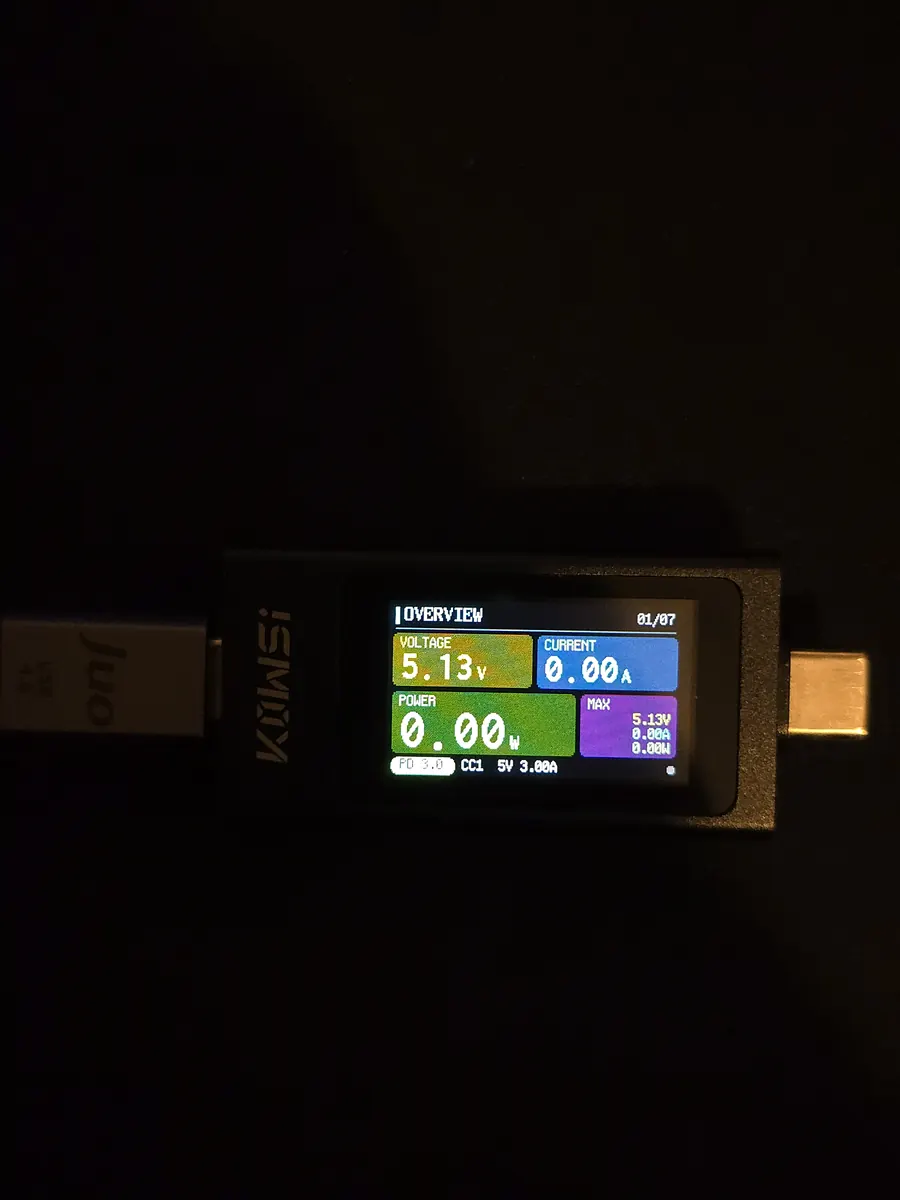
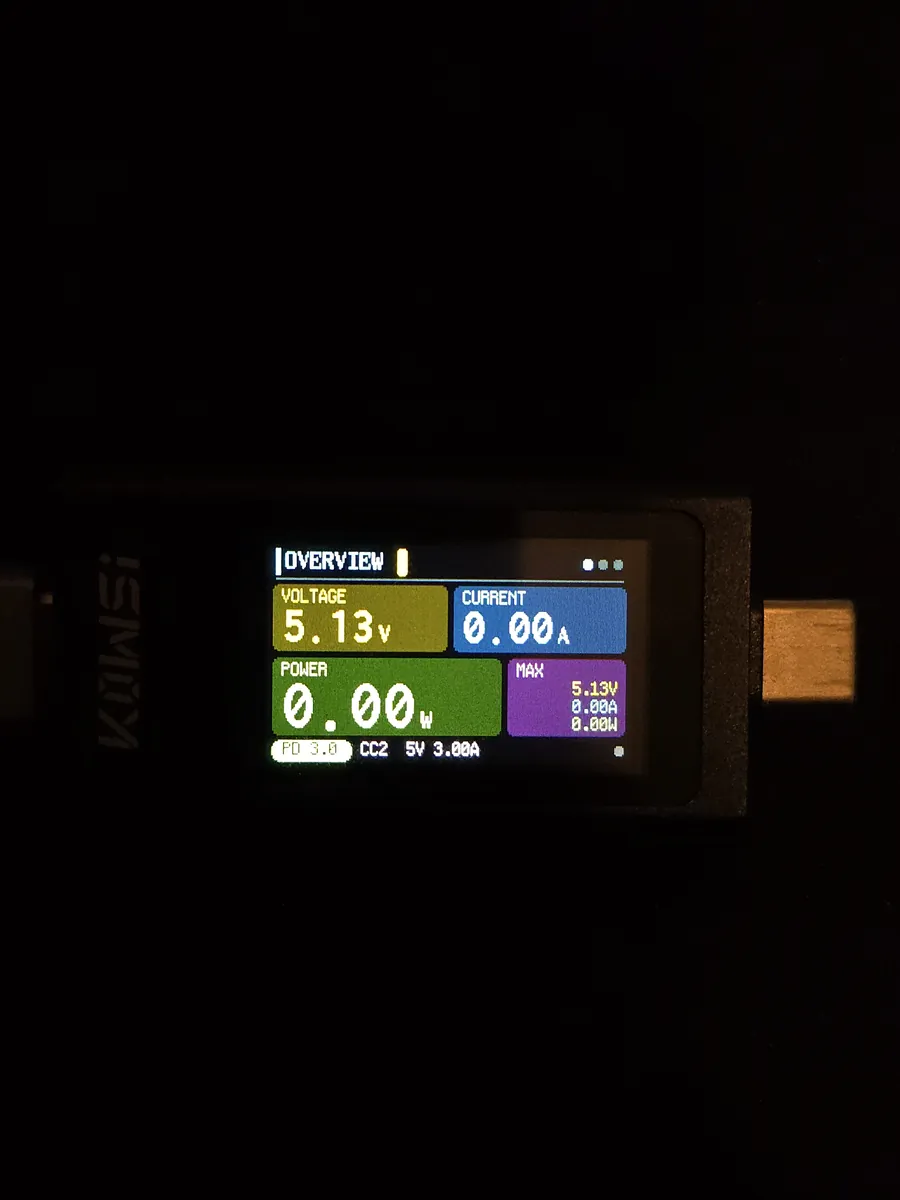
docs: retake the screen photos and align the screen guide

Changed region(s): [[0.28, 0.4008, 0.9956, 0.7092], [0.0311, 0.4933, 0.2489, 0.6167]]

diff --git a/README.md b/README.md
@@ -30,6 +30,7 @@ is not affiliated with or endorsed by KOWSI.
 - [Screens](#screens)
   - [Sink mode](#sink-mode)
   - [Passthrough mode](#passthrough-mode)
+- [Quick Charge](#quick-charge)
 - [Full charger offer and 5 A without a cable](#full-charger-offer-and-5-a-without-a-cable)
 - [Hand-test checklist](#hand-test-checklist)
 - [Safety](#safety)
@@ -90,7 +91,7 @@ This is **kws-x1-standalone-rs**.
   direction indicator.
 - D+, D-, CC1 and CC2 line voltages.
 - USB PD sink: fixed profiles up to 20 V and PPS, chosen on the meter.
-- Quick Charge trigger (work in progress): 5, 9, 12 or 20 V over D+/D−, or
+- Quick Charge trigger: 5, 9, 12 or 20 V over D+/D−, or
   Quick Charge 3.0 0.2 V steps from 3.6 V, checked against VBUS, and a probe
   that reports Quick Charge 2.0 or 3.0 and Class A or B. On USB-C the meter
   switches the charger out of PD for it by itself.
@@ -246,9 +247,16 @@ but are no longer saved. The bootloader and its region are never written.
 
 ## Screens
 
-Every screen, group by group in Left/Right order, with each field it can show.
-`-` or `--.--` in a field means "not known yet". Hexadecimal values are raw
-register or message contents, shown for diagnosis.
+Every screen, group by group in Left/Right order. Each one gives a photo,
+what the screen is for, each field it can show, then its hint row (the
+bottom line). `-` or `--.--` in a field means "not known yet". Hexadecimal
+values are raw register or message contents, shown for diagnosis.
+
+While Left/Right move between groups, every hint row reads
+`< > groups    OK tabs`. The scrolling screens (PD Session, Charger, Cable,
+System, PD Sniff) share one hint row: `OK scroll    < > tabs`, then
+`< > scroll    OK done` while scrolling, or `< > tabs    BACK groups` when
+everything fits on one screen.
 
 ### Sink mode
 
@@ -256,8 +264,9 @@ register or message contents, shown for diagnosis.
 
 <img src="pictures/overview_screen.webp" width="360" alt="Overview screen">
 
-This is the **Overview** screen (tab `OVERVIEW` in Monitor), the one the
-meter starts on.
+This is the **Overview** screen (tab `OVERVIEW` in Monitor): the live bus
+readings and the protocol in use. The meter starts on it, and its bottom line
+is the protocol status instead of a hint row.
 
 - **`VOLTAGE`**: bus voltage, in volts. `--.--` until the first reading, or
   while the sensor bus is closed.
@@ -298,9 +307,13 @@ meter starts on.
 
 #### 2. Lines
 
-This is the **Lines** screen (tab `LINES` in Monitor): the voltages on the USB data and
-configuration lines, read by the MCU's own ADC against its internal
-reference, independently of the bus sensor and the PD controller.
+<img src="pictures/lines_screen.webp" width="360" alt="Lines screen">
+
+This is the **Lines** screen (tab `LINES` in Monitor): the voltages on the
+USB data and configuration lines, read by the MCU's own ADC against its
+internal reference, independently of the bus sensor and the PD controller.
+The lines are sampled only while this screen, the overview or a Quick Charge
+screen shows, or while Quick Charge runs.
 
 - **`D+`** / **`D-`**: the USB 2.0 data lines, in volts. Chargers that
   identify themselves on these lines (BC 1.2, Apple and similar dividers) show
@@ -309,18 +322,16 @@ reference, independently of the bus sensor and the PD controller.
   in use carries the Type-C pull-up/pull-down level; a cable's VCONN shows on
   the other one.
 - `-.--`: no reading yet, or the last ADC scan failed.
-- **`approximate`** (hint row): the internal reference was measured on one
-  unit, and another unit's may differ by a few percent (see
+- **Hint row**: `approximate    < > tabs`. The internal reference was
+  measured on one unit, and another unit's may differ by a few percent (see
   [Limitations](#limitations)).
-
-The lines are sampled only while this screen, the overview or a Quick
-Charge screen is shown, or while Quick Charge runs.
 
 #### 3. PD Profiles
 
 <img src="pictures/pd_profiles_screen.webp" width="360" alt="PD Profiles screen">
 
-This is the **PD Profiles** screen (tab `PD PROFILES` in Trigger): the charger's fixed profiles.
+This is the **PD Profiles** screen (tab `PD PROFILES` in Trigger): the
+charger's fixed profiles, to request one.
 
 - **Each row**: voltage, the charger's maximum current at it, and that power
   in watts. The voltage is coloured from cool (low) to warm (high).
@@ -329,17 +340,18 @@ This is the **PD Profiles** screen (tab `PD PROFILES` in Trigger): the charger's
 - **`NO PD CHARGER` / `plug in a PD source`**: the charger offered no
   fixed profiles.
 - **`QC MODE` / `PD is off while Quick Charge runs`**: this boot keeps PD
-  silent for Quick Charge, so there is no offer; the PPS screen shows the
-  same. OK (`OK switch back to PD`) switches back to PD.
+  silent for [Quick Charge](#quick-charge), so there is no offer.
 - **Hint row**: `OK select a profile    < > tabs`, then while choosing
   `< > choose  OK request  BACK cancel`. Before the charger's offer arrives it
-  reads `waiting for the charger    < > tabs`.
+  reads `waiting for the charger    < > tabs`; in `QC MODE`,
+  `OK switch back to PD`.
 
 #### 4. PPS
 
 <img src="pictures/pps_screen.webp" width="360" alt="PPS screen">
 
-This is the **PPS** screen (tab `PPS` in Trigger): programmable voltage.
+This is the **PPS** screen (tab `PPS` in Trigger): the charger's
+programmable ranges, to request a voltage and current limit.
 
 - **Range row**: each PPS range the charger offers, for example
   `3.30-21.00V  up to 5.00A`.
@@ -351,45 +363,19 @@ This is the **PPS** screen (tab `PPS` in Trigger): programmable voltage.
 - **State**: `ACTIVE` (this setting is the contract in force), `NOT APPLIED`
   (set but not requested yet), or empty.
 - **`NO PPS` / `this charger offers no PPS range`**: nothing to set.
+- **`QC MODE`**: as on the PD Profiles screen.
 - **Hint row**: `OK adjust PPS    < > tabs`, `< > volts    OK next: current`,
-  `< > amps    OK request`, or `waiting for the charger    < > tabs`.
+  `< > amps    OK request`, or `waiting for the charger    < > tabs`; in
+  `QC MODE`, `OK switch back to PD`.
 
 #### 5. QC 2.0
 
-This is the **QC 2.0** screen (tab `QC 2.0` in Trigger), laid out as the PD
-Profiles screen.
+<img src="pictures/qc2_screen.webp" width="360" alt="QC 2.0 screen">
 
-**Under a PD contract** a USB-C charger ignores Quick Charge, so the screen
-shows only `PD MODE` / `the charger ignores QC under PD`, and the PD
-Profiles and PPS screens stay in use. OK (`OK switch to QC, tests up to
-20V`) switches: the meter restarts the charger with a Hard Reset and boots
-with PD silent (Rd held, nothing acknowledged), so the charger falls back to
-non-PD 5 V and takes Quick Charge. The charger may restart one or two more
-times before it settles. The meter comes back on the Quick Charge screen it
-left and tests the charger at once. OK on the PD Profiles or PPS screen
-switches back the same way, into PD. The meter stops saving the switch once the charger
-had 10 s to settle, so the next plug-in starts with PD again.
-
-**The test** (`TESTING THE CHARGER`) runs the first time Quick Charge starts
-in a boot, without a PD contract on OK, or straight after the switch out of
-PD. It holds D+ at 0.6 V until the charger releases D−, then requests Quick
-Charge 3.0 continuous mode and three 200 mV steps up from 5 V, then 5 V
-again (a charger ignored fixed requests sent straight from continuous mode),
-9, 12 and 20 V, and ends at 5 V. The checked requests all raise the output,
-so a slowly falling VBUS cannot hide the steps. **It puts up to 20 V on the
-output port**, so disconnect anything that cannot take that first. It ends
-in `NO CHARGING PORT` (D+ and D− are not shorted) or `NO QUICK CHARGE` (D−
-never went low) when the charger has no Quick Charge.
-
-After the test the choice opens at 5 V: Left/Right choose among the
-voltages the charger took, and OK requests one and closes the choice; Back
-closes it without a request. OK reopens it at the voltage in force. The
-request stays in force while other screens show, so the overview can watch
-it. `OFF` releases D+/D−, and the charger returns to plain USB at 5 V.
-
-Quick Charge never confirms a request, so the meter watches VBUS: a request
-whose output has not moved halfway after 610 ms (the charger's 60 ms filter
-plus PD's 550 ms supply transition limit) shows `IGNORED`.
+This is the **QC 2.0** screen (tab `QC 2.0` in Trigger): Quick Charge 2.0
+fixed voltages, to request one. It is laid out as the PD Profiles screen;
+[Quick Charge](#quick-charge) explains the switch out of PD, the test and
+the requests.
 
 - **Rows**: 5, 9, 12 and 20 V, then `OFF` (`plain USB`). Before the test
   20 V reads `Class B only`; after it a voltage the charger ignored is greyed
@@ -398,18 +384,29 @@ plus PD's 550 ms supply transition limit) shows `IGNORED`.
   result.
 - **Status pill** on the row it concerns: `WAIT` (handshake), `SETTING`
   (waiting for VBUS), `ACTIVE`, `IGNORED`, `NO DCP` or `NO QC`.
+- **`PD MODE` / `the charger ignores QC under PD`**: a PD contract holds the
+  charger.
+- **`TESTING THE CHARGER`**: the test runs, with the step it is on
+  (`Quick Charge handshake`, `asking for 9V`, `QC 3.0 continuous mode`,
+  `QC 3.0 steps +0.40V`, `back to 5V`). It ends in `NO CHARGING PORT` /
+  `D+ and D- are not shorted` or `NO QUICK CHARGE` / `D- stayed high` when
+  the charger has no Quick Charge.
+- **Hint row**: `OK choose a voltage    < > tabs`, then while choosing
+  `< > choose  OK request  BACK cancel`, and `OK change    < > tabs` once a
+  request runs. Until the charger follows it: `handshake    < > tabs`,
+  `waiting for VBUS    < > tabs`, `charger kept its output    OK change`,
+  `D+ D- not shorted    OK change` or `D- stayed high    OK change`. Before
+  the test `OK test the charger, up to 20V`, during it
+  `up to 20V on the output    BACK stop` (`BACK` once it failed); in
+  `PD MODE`, `OK switch to QC, tests up to 20V`.
 
 #### 6. QC 3.0
 
-This is the **QC 3.0** screen (tab `QC 3.0` in Trigger), laid out as the PPS
-screen. Under a PD contract it shows only `PD MODE`, and switches as the
-QC 2.0 screen does. OK runs the same test the first time, then starts Quick
-Charge 3.0 continuous mode at 5 V; Left/Right then move the output by 0.2 V
-(held, they repeat), from 3.6 V up to 12 V (20 V on a Class B charger), one
-step per 100 ms scan. OK or Back stops adjusting; the output stays where
-the steps put it while other screens show. OK reopens it there, and `OFF`
-on the QC 2.0 screen ends the steps.
-A charger that ignored the steps in the test shows `NO QC 3.0`.
+<img src="pictures/qc3_screen.webp" width="360" alt="QC 3.0 screen">
+
+This is the **QC 3.0** screen (tab `QC 3.0` in Trigger): Quick Charge 3.0
+continuous mode, to set the output in 0.2 V steps. It is laid out as the PPS
+screen; see [Quick Charge](#quick-charge).
 
 - **Step range** (top): what the test found, else
   `3.6-12V by 0.2V  Class A` and `3.6-20V by 0.2V  Class B`.
@@ -419,13 +416,20 @@ A charger that ignored the steps in the test shows `NO QC 3.0`.
 - **`D+ … D- …`**: the lines as measured, to check the driven levels.
 - **State** (bottom right): `WAIT`, `STEPPING`, `ACTIVE` (the steps reached
   the set voltage), `NO DCP` or `NO QC`.
+- **`PD MODE`** and **`TESTING THE CHARGER`**: as on the QC 2.0 screen.
+- **`NO QC 3.0` / `the charger ignored the steps`**: the test found no
+  steps.
+- **Hint row**: `OK start at 5V    < > tabs`, then `< > 0.2V    OK done`
+  while adjusting, and `OK adjust    < > tabs` once the steps run; the
+  handshake, test and `PD MODE` hints as on the QC 2.0 screen, and `< > tabs`
+  after `NO QC 3.0`.
 
 #### 7. PD Session
 
 <img src="pictures/pd_session_screen.webp" width="360" alt="PD Session screen">
 
-This is the **PD Session** screen (tab `PD SESSION` in Info): the meter's own PD negotiation.
-It scrolls (OK) through three sections.
+This is the **PD Session** screen (tab `PD SESSION` in Info): the meter's
+own PD negotiation. It scrolls (OK) through three sections.
 
 **Session section**
 
@@ -527,8 +531,8 @@ It scrolls (OK) through three sections.
 
 <img src="pictures/charger_screen.webp" width="360" alt="Charger screen">
 
-This is the **Charger** screen (tab `CHARGER` in Info): what the charger says about
-itself, then what Quick Charge detection found. The PD parts are the
+This is the **Charger** screen (tab `CHARGER` in Info): what the charger says
+about itself, then what Quick Charge detection found. The PD parts are the
 charger's claims, not measurements, then the Quick Charge result. It
 scrolls (OK) through the parts; a long offer takes two screens.
 
@@ -545,7 +549,8 @@ scrolls (OK) through the parts; a long offer takes two screens.
   the note `* ONLY WITH 5A CABLE`.
 - **Notes**:
   - `HOLD OK: FULL SCAN` / `QC AND EPR; RESTARTS` (`QC, EPR, 5A; RESTARTS`
-    with the plug in the charger): hold OK for the full scan.
+    with the plug in the charger): hold OK for the
+    [full scan](#full-charger-offer-and-5-a-without-a-cable).
   - After the scan, the EPR (28 V and up) request: `ASKING CHARGER`,
     `NO ANSWER, HOLD OK AGAIN`, `LINE BUSY, HOLD OK AGAIN`, or in the 5 A
     cable test `HOLD OK FOR ALL`.
@@ -606,26 +611,12 @@ with `HOLD OK: FULL SCAN`, or without a PD contract `NOT TESTED YET` with
 **Answer words** used in these sections: `OK`, `WAITING`, `NOT SUPPORTED`,
 `NO REPLY`, `BLOCKED`, `RESET`, `PD2 N/A` (not available under PD 2.0).
 
-**Full scan.** Hold OK on this screen (`HOLD OK: FULL SCAN`). A charger
-ignores Quick Charge under a PD contract, so the meter:
-
-1. Restarts the charger with a Hard Reset into a boot with PD silent, and
-   runs the Quick Charge test on the QC 2.0 screen (it may restart once or
-   twice more first; it carries on). Back abandons the scan.
-2. Saves the result, restarts the charger into PD, asks for the EPR offer by
-   itself, and opens this screen with everything: the offer, the EPR offer,
-   the Quick Charge sections and the charger's answers. With the plug in the
-   charger that boot is the
-   [5 A cable test](#full-charger-offer-and-5-a-without-a-cable).
-
-The output goes up to 20 V during the scan.
-
 #### 9. Cable
 
 <img src="pictures/cable_screen.webp" width="360" alt="Cable screen">
 
-This is the **Cable** screen (tab `CABLE` in Info): the cable's e-marker. Hold OK at
-fixed 5 V to read it. It scrolls (OK) through several sections.
+This is the **Cable** screen (tab `CABLE` in Info): the cable's e-marker.
+Hold OK at fixed 5 V to read it. It scrolls (OK) through several sections.
 
 **Before or instead of a reading**
 
@@ -672,6 +663,7 @@ GET_STATUS`, `SECOND PLUG NO DATA`).
 <img src="pictures/system_screen.webp" width="360" alt="System screen">
 
 This is the **System** screen (tab `SYSTEM` in Info): the meter's own health.
+It scrolls (OK) through two sections.
 
 **Sensor bus**
 
@@ -704,7 +696,8 @@ This is the **System** screen (tab `SYSTEM` in Info): the meter's own health.
 
 <img src="pictures/settings_screen.webp" width="360" alt="Settings screen">
 
-This is the **Settings** screen (Back on the overview).
+This is the **Settings** screen (Back on the overview): display preferences
+and the overview's peaks.
 
 - **`BRIGHTNESS`**: five bars, 20%, 40%, 60%, 80% and 95%. Saved.
 - **`ROTATION`**: `AUTO` (follows the tilt sensor), `NORMAL` or `FLIPPED`.
@@ -723,16 +716,18 @@ screens read as in sink mode.
 
 <img src="pictures/passthrough_overview_screen.webp" width="360" alt="Overview screen in passthrough">
 
-This is the **Overview** screen while a charger and a phone negotiate through
-the meter. The badge and status (`PD 3.0`, `CC1 9V 3.00A`) come from the
-messages the meter overheard, and the chevrons show which way power flows.
+This is the **Overview** screen (tab `OVERVIEW` in Monitor) while a charger
+and a phone negotiate through the meter. The badge and status (`PD 3.0`,
+`CC2 9V 3.00A`) come from the messages the meter overheard, and the chevrons
+show which way power flows.
 
 #### 2. PD Sniff
 
 <img src="pictures/pd_sniff_screen.webp" width="360" alt="PD Sniff screen">
 
-This is the **PD Sniff** screen (tab `PD SNIFF` in Info): the PD messages between the
-charger and the device, oldest first. The meter only listens.
+This is the **PD Sniff** screen (tab `PD SNIFF` in Info): the PD messages
+between the charger and the device, oldest first. The meter only listens. It
+scrolls (OK) through two sections.
 
 - **`SNIFF CC1 RP3.0A M:9`**: the CC pin carrying PD, the charger's Type-C
   current advertisement (`RPDEF`, `RP1.5A`, `RP3.0A`), and `M` the number of
@@ -758,7 +753,67 @@ charger and the device, oldest first. The meter only listens.
 - Before any message: `PASSTHROUGH RX ONLY`, `NO TX NO GOODCRC`, and
   `STARTING` or `WAITING FOR PD TRAFFIC`.
 
+## Quick Charge
+
+Quick Charge asks the charger for a higher voltage over D+ and D− instead of
+PD. The QC 2.0 and QC 3.0 screens drive it; the overview names it while the
+charger follows.
+
+**Switching out of PD.** Under a PD contract a USB-C charger ignores Quick
+Charge, so the Quick Charge screens show only `PD MODE`, and the PD Profiles
+and PPS screens stay in use. OK there (`OK switch to QC, tests up to 20V`)
+switches: the meter restarts the charger with a Hard Reset and boots with PD
+silent (Rd held, nothing acknowledged), so the charger falls back to non-PD
+5 V and takes Quick Charge. The charger may restart one or two more times
+before it settles. The meter comes back on the Quick Charge screen it left
+and tests the charger at once. OK on the PD Profiles or PPS screen
+(`QC MODE`) switches back the same way, into PD. The meter stops saving the
+switch once the charger had 10 s to settle, so the next plug-in starts with
+PD again.
+
+**The test** (`TESTING THE CHARGER`) runs the first time Quick Charge starts
+in a boot, without a PD contract on OK, or straight after the switch out of
+PD. It holds D+ at 0.6 V until the charger releases D−, then requests Quick
+Charge 3.0 continuous mode and three 200 mV steps up from 5 V, then 5 V
+again (a charger ignored fixed requests sent straight from continuous mode),
+9, 12 and 20 V, and ends at 5 V. The checked requests all raise the output,
+so a slowly falling VBUS cannot hide the steps. **It puts up to 20 V on the
+output port**, so disconnect anything that cannot take that first. It ends
+in `NO CHARGING PORT` (D+ and D− are not shorted) or `NO QUICK CHARGE` (D−
+never went low) when the charger has no Quick Charge.
+
+**Fixed voltages (2.0).** After the test the QC 2.0 choice opens at 5 V:
+Left/Right choose among the voltages the charger took, and OK requests one and
+closes the choice; Back closes it without a request. OK reopens it at the
+voltage in force. The request stays in force while other screens show, so the
+overview can watch it. `OFF` releases D+/D−, and the charger returns to plain
+USB at 5 V.
+
+**Steps (3.0).** On the QC 3.0 screen OK starts continuous mode at 5 V;
+Left/Right then move the output by 0.2 V (held, they repeat), from 3.6 V up
+to 12 V (20 V on a Class B charger), one step per 100 ms scan. OK or Back
+stops adjusting; the output stays where the steps put it while other screens
+show. OK reopens it there, and `OFF` on the QC 2.0 screen ends the steps.
+
+**Checking the output.** Quick Charge never confirms a request, so the meter
+watches VBUS: a request whose output has not moved halfway after 610 ms (the
+charger's 60 ms filter plus PD's 550 ms supply transition limit) shows
+`IGNORED`.
+
 ## Full charger offer and 5 A without a cable
+
+**The full scan.** Hold OK on the Charger screen (`HOLD OK: FULL SCAN`). A
+charger ignores Quick Charge under a PD contract, so the meter:
+
+1. Restarts the charger with a Hard Reset into a boot with PD silent, and
+   runs the Quick Charge test on the QC 2.0 screen (it may restart once or
+   twice more first; it carries on). Back abandons the scan.
+2. Saves the result, restarts the charger into PD, asks for the EPR offer by
+   itself, and opens the Charger screen with everything: the offer, the EPR
+   offer, the Quick Charge sections and the charger's answers. With the plug
+   in the charger that boot is the 5 A cable test below.
+
+The output goes up to 20 V during the scan.
 
 USB PD chargers only offer more than 3 A (for example 20 V 5 A, or PPS 5 A)
 when they know the cable can carry it. A 5 A cable proves that with an
